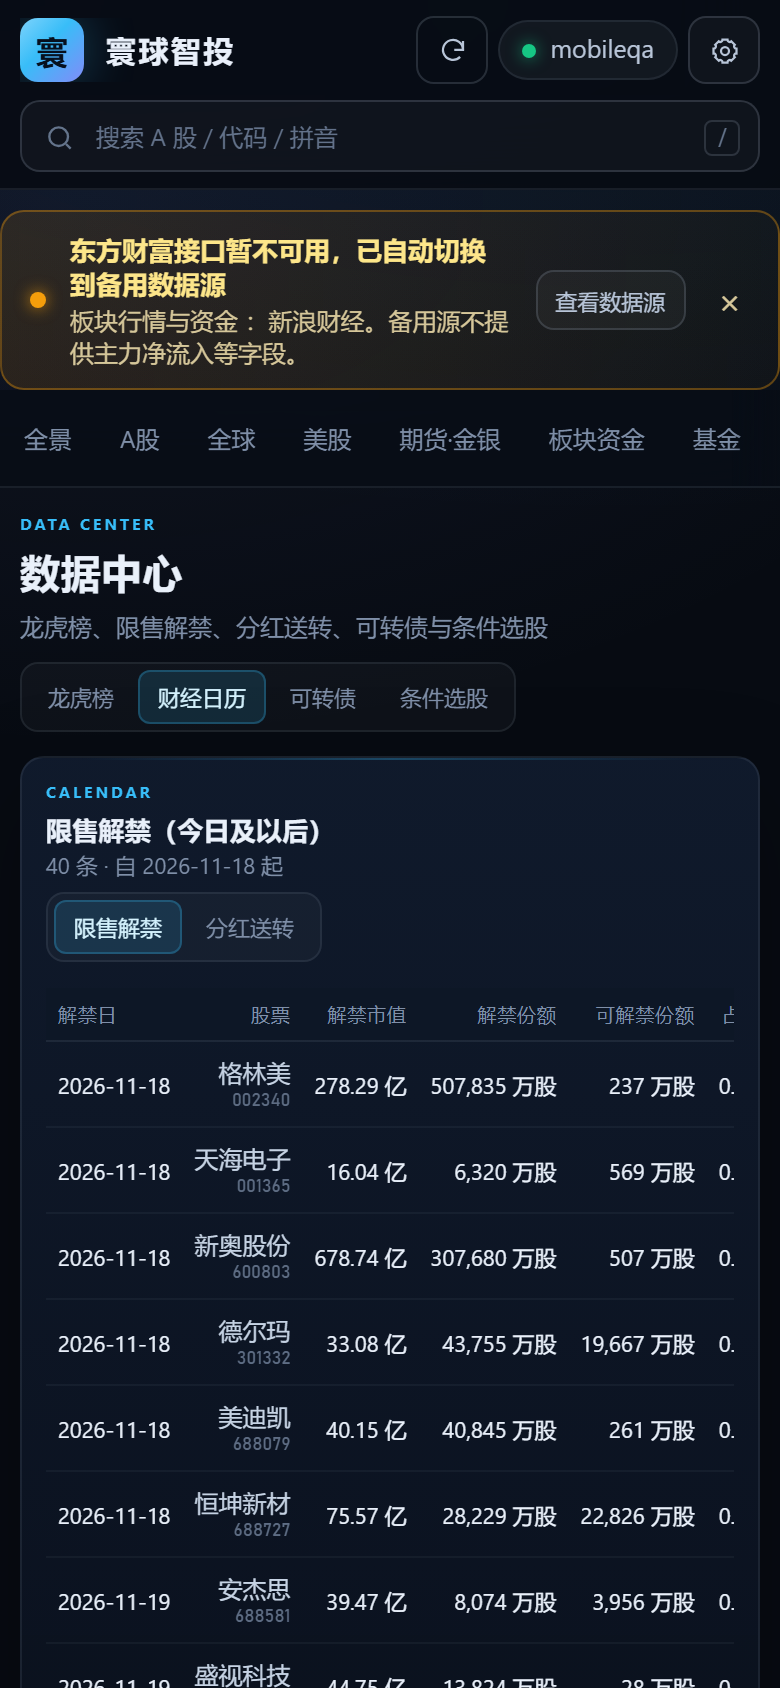
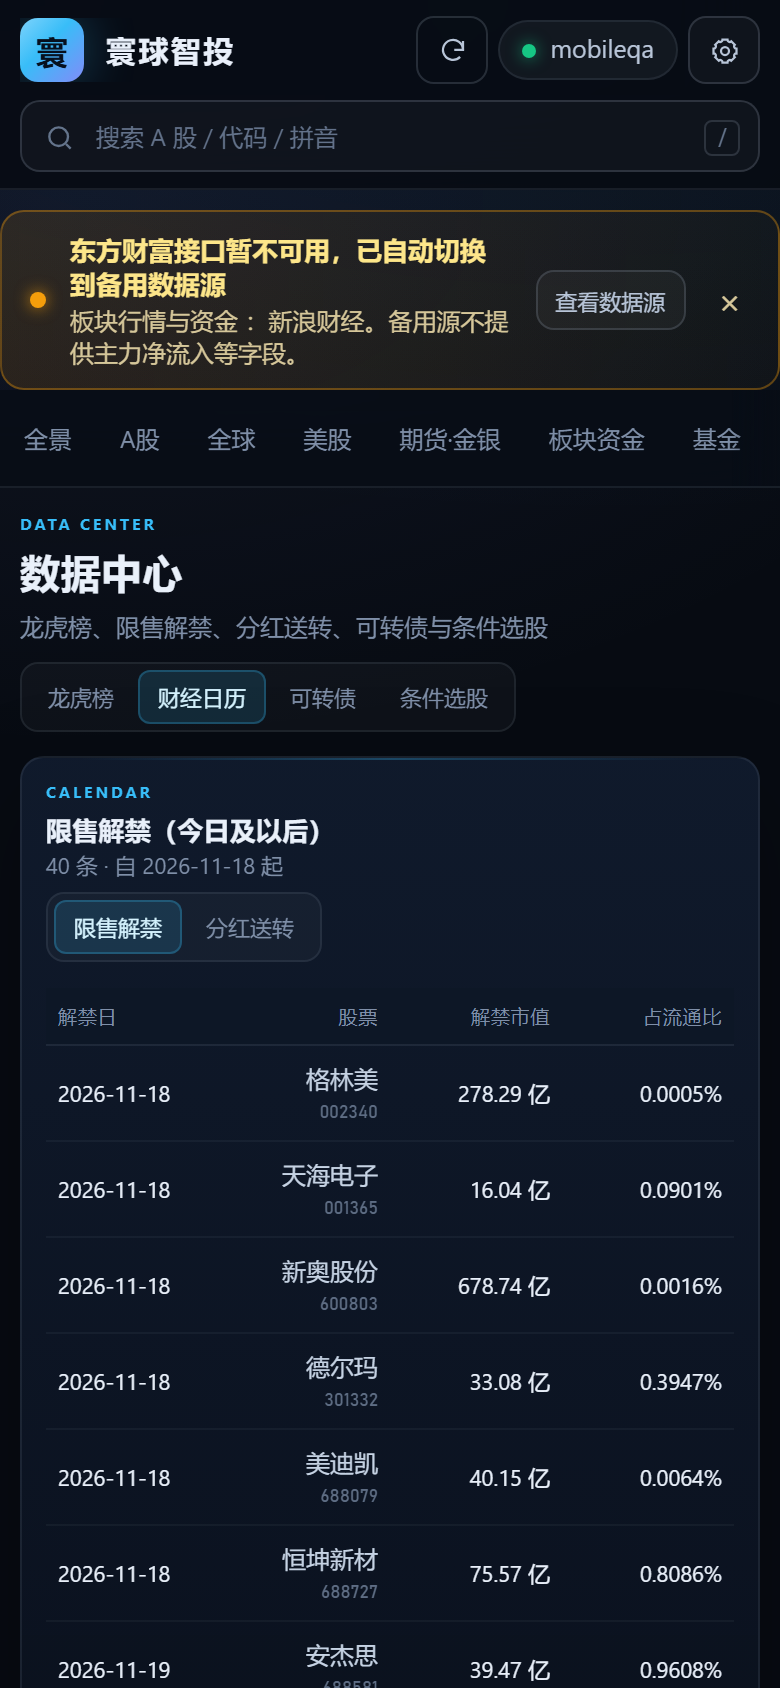
auto: 2026-11-19 01:16

diff --git a/docs/客户端改进路线图.md b/docs/客户端改进路线图.md
@@ -115,15 +115,37 @@
 轻量 F10（概况/财务/股东/分红，作为个股详情页签）、北向数据（合规版，仅季度持股与盘后活跃股）、模拟交易 + 信号留痕（虚拟账本 + 策略命中率）、PWA（manifest + Service Worker，同时根治发版缓存）、移动端底部 5 Tab（行情/市场/策略/自选/我的）、资讯升级（个股相关新闻/公告聚合与分类过滤）。
 
 ### 阶段 4 · P3 候选（暂不承诺）
-
 画线与图表标注、自定义看板拖拽、浅色主题（先 CSS 变量化）、SSE 替代轮询（收益有限需单独立项）、多窗口盯盘屏。
 
 ---
 
-## 五、变更清单与约束
+## 四·五、手机端核查（2026-11-19，v2.6.0）
 
-**新增 API**：`/api/kline?fqt=`（阶段 1）；`/api/longhu`、`/api/longhu/stock`、`/api/calendar`、`/api/screener`、`/api/convertibles`、`/api/alerts`（阶段 2）。
-**schema 版本**：阶段 1 不动库结构；阶段 2 升 v3（alerts），模拟交易再升 v4；一律走 `lib/store.js` 版本化迁移，JSON 模式提供等价降级。
+**方法**：隔离实例（临时目录 + 随机端口）+ Edge 无头（CDP 驱动），按 390×844、DPR 2 模拟手机，注册账号后逐页截图。18 张证据图在 `docs/screenshots/mobile/`（00-login ~ 17-data-calendar，含整页长截图）。
+
+**结论：九个一级页面 + 个股/美股详情弹窗在 390px 下均可正常显示与操作**，发现并修复 6 处问题：
+
+| # | 问题 | 根因 | 修复 |
+|---|---|---|---|
+| 1 | 云端预警开关在手机上完全不显示 | `@media(max-width:430px)` 里写了 `.auto-toggle{display:none}`，原本只想藏顶栏的「自动」开关，把页面里所有开关一起藏了 | 作用域收窄为 `.top-actions .auto-toggle` |
+| 2 | 龙虎榜同一只股票重复出现（如九阳股份两行） | 东财一只股票可因多个「上榜原因」各占一行，前端平铺 | 服务端按代码合并、原因用「；」拼接（金额不求和，避免重复计） |
+| 3 | 龙虎榜右侧「买入/卖出/成交占比/原因」被裁掉 | 9 列在 390px 必然溢出 | 手机端改固定列宽，只留 股票/涨跌幅/上榜净额/原因，原因换行且左对齐 |
+| 4 | 上榜原因文字被截断成一行 | `.table .t-sub` 自带 `white-space:nowrap`，优先级压过表格级设置 | 补 `.longhu-table .t-sub{white-space:normal}` |
+| 5 | 条件选股标签在窄屏折行（「涨跌幅」与「≥」分两行） | 文案是裸文本节点，CJK 可任意断行 | 文案包 `<span>` + `white-space:nowrap` |
+| 6 | 财经日历 / 可转债 / 选股结果表同样右侧溢出 | 同 3 | 各自保留 3~5 列、`table-layout:fixed`、允许换行 |
+
+另外顺手修的两个小问题：模拟交易「累计盈亏 = 0」不再标红（用中性色）；选股结果为空时不再显示孤零零的「--」徽标。
+
+**仍存在的已知限制（不是 bug，是取舍）**：
+- 手机端复杂表格选择「少列 + 换行」而不是横向滚动；想看全部列请在桌面端打开。
+- PWA 只缓存壳页面与静态资源，`/api` 不缓存（行情必须新），所以离线打开只能看到框架、没有数据。
+- 未做底部 Tab（3.5），导航仍是顶部横滑，九个一级页面靠横滑切换。
+
+---
+
+## 五、变更清单与约束
+**新增 API**：`/api/kline?fqt=`（阶段 1）；`/api/longhu`、`/api/longhu/stock`、`/api/calendar`、`/api/screener`、`/api/alerts`、`/api/paper`(GET)、`/api/paper/trade`、`/api/paper/reset`、`/api/stock/news`、`/api/hk/quote|quotes|kline|minute`、`/api/f10`（阶段 2/3）。
+**schema 版本**：阶段 1 不动库结构；阶段 2/3 统一升 **v3**（`user_extras`，一张表同时承载服务端预警与模拟账本）；一律走 `lib/store.js` 版本化迁移，JSON 模式写独立 `<id>.extras.json`。
 **版本与缓存**：每版本同步 9 处版本串 + `data/changelog.json` 新条目（最新的放最前），并规避历史踩过的发版缓存陷阱。
 **文案编码**：Windows PowerShell 5.1 下直接 `Get-Content/Set-Content` 读写 UTF-8 中文源文件会损坏中文，改动一律用编辑工具或显式 `-Encoding UTF8` 并核对编码。
 **测试**：后端 `node --test test/*.test.mjs`；前端 `scripts/check-frontend-modules.mjs` 与 `test/dom-smoke.test.mjs`；新增能力补 fixtures 驱动的单测，不依赖实时外网。
